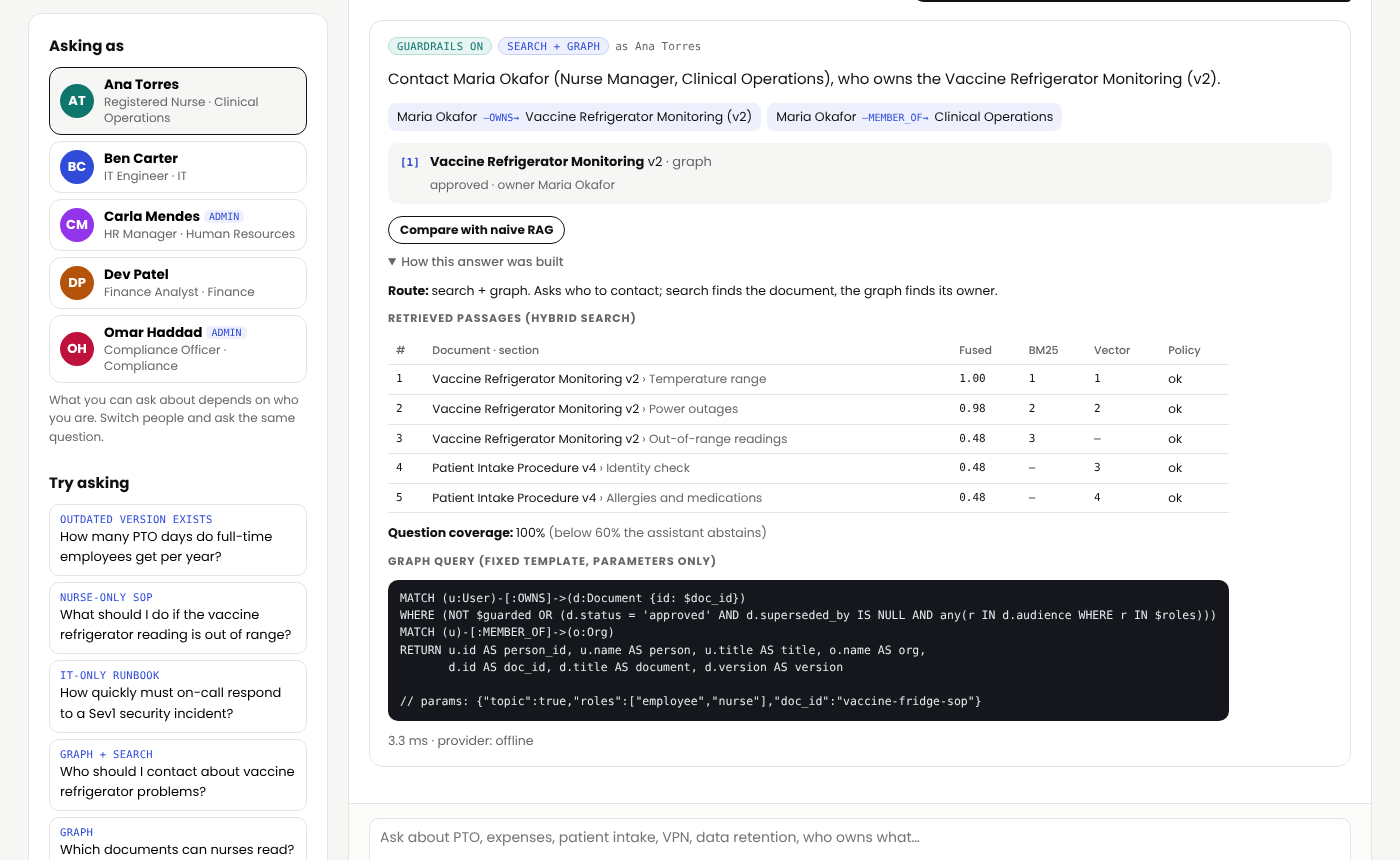
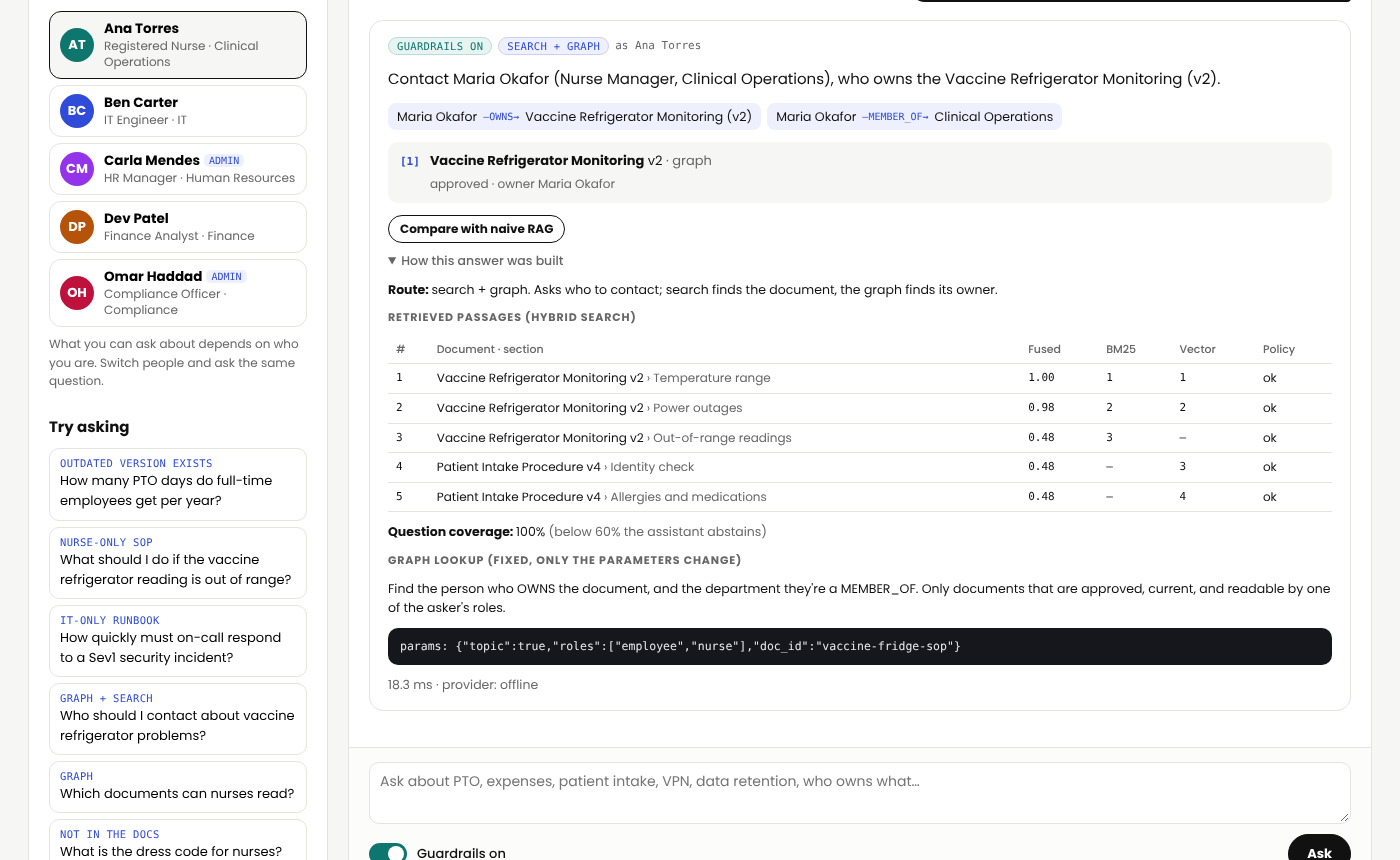
Remove Neo4j: keep the knowledge graph built in
The graph now runs only in-process. Drop the Neo4j connector, its CI job and
Docker service, and every Neo4j/Cypher mention. Graph answers show their fixed
lookup in plain words instead of a Cypher template. Evaluation results are
unchanged.

diff --git a/assistant/static/app.js b/assistant/static/app.js
@@ -156,9 +156,10 @@ function renderTrace(r) {
     }
   }
   if (t.abstain_reason) body.append(el("p", {}, el("b", {}, "Why it abstained: "), t.abstain_reason));
-  if (r.graph && r.graph.cypher) {
-    body.append(el("h4", {}, "Graph query (fixed template, parameters only)"));
-    body.append(el("pre", { class: "code" }, r.graph.cypher + "\n\n// params: " + JSON.stringify(r.graph.params)));
+  if (r.graph && r.graph.lookup) {
+    body.append(el("h4", {}, "Graph lookup (fixed, only the parameters change)"));
+    body.append(el("p", {}, r.graph.lookup));
+    body.append(el("pre", { class: "code" }, "params: " + JSON.stringify(r.graph.params)));
   }
   body.append(el("p", { class: "muted" }, `${r.latency_ms} ms · provider: ${r.provider}`));
   return el("details", { class: "trace" }, el("summary", {}, "How this answer was built"), body);

diff --git a/assistant/graph.py b/assistant/graph.py
@@ -9,54 +9,29 @@ graph:
     (Role)-[:CAN_READ]->(Document)      (Document)-[:BELONGS_TO]->(Org)
     (Document)-[:SUPERSEDES]->(Document)
 
-The model never writes graph queries. A question is mapped to one of the fixed templates in
-`CYPHER` and only its parameters vary, so there is nothing to inject. `MemoryGraph` answers
-them in Python (the default and the browser demo); `backends.neo4j.Neo4jGraph` runs the same
-Cypher against Neo4j and returns rows with the same keys.
+The model never writes graph queries. A question is mapped to one of the fixed lookups in
+`LOOKUPS` and only its parameters vary, so there is nothing to inject. Every lookup that
+returns documents applies the same access rule as document search.
 """
 
 from __future__ import annotations
 
 from dataclasses import dataclass, field
-from typing import Any, Protocol
+from typing import Any
 
 from .knowledge import Document, KnowledgeBase, User
 
-# Shared access predicate. With $guarded = false (naive mode, for comparison) it is a no-op.
-ACCESS = (
-    "(NOT $guarded OR (d.status = 'approved' AND d.superseded_by IS NULL AND any(r IN d.audience WHERE r IN $roles)))"
-)
+_ACCESS = "Only documents that are approved, current, and readable by one of the asker's roles."
 
-CYPHER: dict[str, str] = {
-    "doc_owner": f"""MATCH (u:User)-[:OWNS]->(d:Document {{id: $doc_id}})
-WHERE {ACCESS}
-MATCH (u)-[:MEMBER_OF]->(o:Org)
-RETURN u.id AS person_id, u.name AS person, u.title AS title, o.name AS org,
-       d.id AS doc_id, d.title AS document, d.version AS version""",
-    "doc_approver": f"""MATCH (u:User)-[:APPROVED]->(d:Document {{id: $doc_id}})
-WHERE {ACCESS}
-MATCH (u)-[:MEMBER_OF]->(o:Org)
-RETURN u.id AS person_id, u.name AS person, u.title AS title, o.name AS org,
-       d.id AS doc_id, d.title AS document, d.version AS version""",
-    "role_documents": f"""MATCH (:Role {{id: $role}})-[:CAN_READ]->(d:Document)
-WHERE {ACCESS}
-MATCH (d)-[:BELONGS_TO]->(o:Org)
-RETURN d.id AS doc_id, d.title AS document, d.version AS version, o.name AS org
-ORDER BY document""",
-    "user_manager": """MATCH (u:User {id: $user_id})-[:REPORTS_TO]->(m:User)-[:MEMBER_OF]->(o:Org)
-RETURN u.name AS subject, m.id AS person_id, m.name AS person, m.title AS title, o.name AS org""",
-    "org_members": """MATCH (u:User)-[:MEMBER_OF]->(o:Org {id: $org_id})
-RETURN u.id AS person_id, u.name AS person, u.title AS title, o.name AS org
-ORDER BY person""",
-    "user_documents": f"""MATCH (u:User {{id: $user_id}})-[:OWNS]->(d:Document)
-WHERE {ACCESS}
-RETURN u.name AS subject, d.id AS doc_id, d.title AS document, d.version AS version
-ORDER BY document""",
+# Plain-language description of each fixed lookup, shown in the answer trace.
+LOOKUPS: dict[str, str] = {
+    "doc_owner": "Find the person who OWNS the document, and the department they're a MEMBER_OF. " + _ACCESS,
+    "doc_approver": "Find the person who APPROVED the document, and the department they're a MEMBER_OF. " + _ACCESS,
+    "role_documents": "List the documents the role CAN_READ, with the department each BELONGS_TO. " + _ACCESS,
+    "user_manager": "Find the person this user REPORTS_TO, and that person's department.",
+    "org_members": "List the people who are a MEMBER_OF the department.",
+    "user_documents": "List the documents this person OWNS. " + _ACCESS,
 }
-
-
-class GraphStore(Protocol):
-    def run(self, intent: str, params: dict[str, Any]) -> list[dict[str, Any]]: ...
 
 
 @dataclass
@@ -74,7 +49,7 @@ class GraphAnswer:
     text: str
     rows: list[dict[str, Any]]
     path: list[Edge]
-    cypher: str
+    lookup: str
     params: dict[str, Any]
     doc_ids: list[str] = field(default_factory=list)
 
@@ -85,7 +60,7 @@ class GraphAnswer:
 
 
 class MemoryGraph:
-    """In-process graph built from the knowledge base. Runs the CYPHER templates' logic in Python."""
+    """In-process graph built from the knowledge base. Runs the fixed lookups in `LOOKUPS`."""
 
     def __init__(self, kb: KnowledgeBase) -> None:
         self.kb = kb
@@ -181,12 +156,14 @@ def _doc_label(row: dict[str, Any]) -> str:
 
 def explain(intent: str, params: dict[str, Any], rows: list[dict[str, Any]], kb: KnowledgeBase) -> GraphAnswer:
     """Turn template rows into an answer sentence and the graph path behind it."""
-    cypher = CYPHER[intent]
+    lookup = LOOKUPS[intent]
+    if not params.get("guarded", True) and _ACCESS in lookup:
+        lookup = lookup.replace(_ACCESS, "Guardrails off: no access or lifecycle check.")
     shown = {k: v for k, v in params.items() if k != "guarded"}
     path: list[Edge] = []
     doc_ids = [r["doc_id"] for r in rows if "doc_id" in r]
     if not rows:
-        return GraphAnswer(intent, "", [], [], cypher, shown, [])
+        return GraphAnswer(intent, "", [], [], lookup, shown, [])
     r0 = rows[0]
     if intent in {"doc_owner", "doc_approver"}:
         verb = "owns" if intent == "doc_owner" else "approved"
@@ -217,4 +194,4 @@ def explain(intent: str, params: dict[str, Any], rows: list[dict[str, Any]], kb:
         path = [Edge(r0["subject"], "OWNS", _doc_label(r), "User", "Document") for r in rows]
     else:
         raise ValueError(intent)
-    return GraphAnswer(intent, text, rows, path, cypher, shown, doc_ids)
+    return GraphAnswer(intent, text, rows, path, lookup, shown, doc_ids)

diff --git a/assistant/core.py b/assistant/core.py
@@ -23,7 +23,7 @@ from typing import Any
 
 from .config import Settings, get_settings
 from .gateway import LLMProvider, get_embedder, get_provider
-from .graph import GraphStore, MemoryGraph, explain
+from .graph import MemoryGraph, explain
 from .grounding import Source, extractive_answer, verify
 from .knowledge import Document, KnowledgeBase, KnowledgeError, User
 from .retrieval import AccessFilter, HybridRetriever, MemoryVectorStore, VectorStore
@@ -70,13 +70,11 @@ class Assistant:
         settings: Settings | None = None,
         kb: KnowledgeBase | None = None,
         vector_store: VectorStore | None = None,
-        graph_store: GraphStore | None = None,
     ) -> None:
         self.settings = settings or get_settings()
         root = Path(self.settings.knowledge_path)
         self.kb = kb or KnowledgeBase.load(root)
-        self.memory_graph = MemoryGraph(self.kb)
-        self.graph: GraphStore = graph_store or self._graph_store()
+        self.graph = MemoryGraph(self.kb)
         self.retriever = HybridRetriever(self.kb, get_embedder(self.settings), vector_store or self._vector_store())
         suggestions = root / "suggestions.json"
         self.suggestions: dict[str, list[dict[str, str]]] = (
@@ -95,15 +93,6 @@ class Assistant:
 
             return WeaviateStore.from_env()
         return MemoryVectorStore()
-
-    def _graph_store(self) -> GraphStore:
-        if self.settings.graph_store == "neo4j":
-            from .backends.neo4j import Neo4jGraph
-
-            g = Neo4jGraph.from_env()
-            g.sync(self.kb)
-            return g
-        return self.memory_graph
 
     # ---------- helpers ----------
 
@@ -399,7 +388,6 @@ class Assistant:
                 self.kb.add(doc)
         except KnowledgeError as exc:
             raise ValueError(str(exc)) from exc
-        self._sync_graph()
         self._log(author.id, "add_document", doc_id=doc.id, supersedes=supersedes)
         return self._doc_info(doc, author)
 
@@ -417,17 +405,11 @@ class Assistant:
                 self.kb.approve(doc_id, approver.id)
         except KnowledgeError as exc:
             raise ValueError(str(exc)) from exc
-        self._sync_graph()
         self._log(approver.id, "approve", doc_id=doc_id, archived=doc.supersedes)
         return self._doc_info(doc, approver)
 
-    def _sync_graph(self) -> None:
-        sync = getattr(self.graph, "sync", None)
-        if callable(sync):
-            sync(self.kb)
-
     def graph_snapshot(self, user_id: str) -> dict[str, Any]:
-        return self.memory_graph.snapshot(self.user(user_id))
+        return self.graph.snapshot(self.user(user_id))
 
     def users(self) -> list[dict[str, Any]]:
         out = []

diff --git a/tests/test_backends.py b/tests/test_backends.py
@@ -2,12 +2,8 @@ import json
 
 import httpx
 
-from assistant.backends.neo4j import Neo4jGraph
 from assistant.backends.pinecone import PineconeStore, pinecone_filter
 from assistant.backends.weaviate import WeaviateStore, weaviate_where
-from assistant.config import Settings
-from assistant.core import Assistant
-from assistant.graph import CYPHER
 from assistant.retrieval import AccessFilter
 
 NURSE = AccessFilter(("employee", "nurse"))
@@ -58,55 +54,3 @@ def test_weaviate_query_has_where_filter():
     q = seen[-1]["query"]
     assert "where: {operator: And" in q and 'valueText: ["employee", "nurse"]' in q and "ContainsAny" in q
     assert weaviate_where(AccessFilter(None)) is None
-
-
-class FakeSession:
-    def __init__(self, log, rows):
-        self.log, self.rows = log, rows
-
-    def __enter__(self):
-        return self
-
-    def __exit__(self, *a):
-        return False
-
-    def run(self, cypher, params):
-        self.log.append((cypher, params))
-        return self.rows
-
-
-class FakeDriver:
-    def __init__(self, rows=()):
-        self.log, self.rows = [], list(rows)
-
-    def session(self, database=None):
-        return FakeSession(self.log, self.rows)
-
-
-def test_neo4j_runs_fixed_templates_with_parameters():
-    row = {
-        "person_id": "dev",
-        "person": "Dev Patel",
-        "title": "Finance Analyst",
-        "org": "Finance",
-        "doc_id": "expense-policy-v2",
-        "document": "Expense Reimbursement Policy",
-        "version": 2,
-    }
-    driver = FakeDriver([row])
-    graph = Neo4jGraph(driver)
-    a = Assistant(Settings(), graph_store=graph)
-    r = a.ask("ana", "Who owns the expense reimbursement policy?")
-    assert r["answer"].startswith("Dev Patel")
-    cypher, params = driver.log[-1]
-    assert cypher == CYPHER["doc_owner"] and params["doc_id"] == "expense-policy-v2" and params["guarded"] is True
-    graph.sync(a.kb)
-    assert any("MERGE (u)-[:OWNS]->(x)" in c for c, _ in driver.log)
-    synced = driver.log[-1][1]
-    assert {d["id"] for d in synced["docs"]} == set(a.kb.docs)
-
-
-def test_cypher_templates_only_use_parameters():
-    for cypher in CYPHER.values():
-        assert "{" not in cypher.replace("{id: $", "").replace("}", "") or "$" in cypher
-        assert "%s" not in cypher and "format" not in cypher

diff --git a/tests/test_live_backends.py b/tests/test_live_backends.py
@@ -1,4 +1,4 @@
-"""Runs only in CI's `backends` job, against real Neo4j and Weaviate containers."""
+"""Runs only in CI's `backends` job, against a real Weaviate container."""
 
 import os
 
@@ -10,23 +10,13 @@ from assistant.evaluation import run_eval
 
 pytestmark = [
     pytest.mark.integration,
-    pytest.mark.skipif(
-        not (os.environ.get("NEO4J_URI") and os.environ.get("WEAVIATE_URL")), reason="needs Neo4j and Weaviate"
-    ),
+    pytest.mark.skipif(not os.environ.get("WEAVIATE_URL"), reason="needs Weaviate"),
 ]
 
 
 @pytest.fixture(scope="module")
 def live() -> Assistant:
-    return Assistant(Settings(vector_store="weaviate", graph_store="neo4j"))
-
-
-def test_graph_questions_on_neo4j(live):
-    r = live.ask("ana", "Who owns the expense reimbursement policy?")
-    assert "Dev Patel" in r["answer"]
-    assert live.ask("ana", "Who owns the security incident response runbook?")["abstained"]
-    r = live.ask("ana", "Which documents can nurses read?")
-    assert "Patient Intake Procedure" in r["answer"] and "(v2), Paid Time Off Policy (v2)" not in r["answer"]
+    return Assistant(Settings(vector_store="weaviate"))
 
 
 def test_weaviate_filters_restricted_passages(live):

diff --git a/assistant/config.py b/assistant/config.py
@@ -27,7 +27,6 @@ class Settings:
     provider: str = "offline"  # offline | openai | anthropic | bedrock | ollama
     embedder: str = "hashing"  # hashing | openai | ollama | bedrock
     vector_store: str = "memory"  # memory | pinecone | weaviate
-    graph_store: str = "memory"  # memory | neo4j
     llm_router: bool = False  # let the model pick graph intents (from a fixed menu)
     openai_model: str = "gpt-4o-mini"
     openai_embed_model: str = "text-embedding-3-small"
@@ -57,7 +56,6 @@ def get_settings() -> Settings:
         provider=env("ASSISTANT_PROVIDER", "offline").lower(),
         embedder=env("ASSISTANT_EMBEDDER", "hashing").lower(),
         vector_store=env("ASSISTANT_VECTOR_STORE", "memory").lower(),
-        graph_store=env("ASSISTANT_GRAPH_STORE", "memory").lower(),
         llm_router=env("ASSISTANT_LLM_ROUTER", "false").lower() in {"1", "true", "yes"},
         openai_model=env("OPENAI_MODEL", "gpt-4o-mini"),
         openai_embed_model=env("OPENAI_EMBED_MODEL", "text-embedding-3-small"),

diff --git a/tests/test_assistant.py b/tests/test_assistant.py
@@ -71,7 +71,7 @@ def test_documents_list_and_read_respect_access(assistant):
 def test_graph_answers(assistant):
     r = ask(assistant, "ana", "Who owns the expense reimbursement policy?")
     assert r["answer"].startswith("Dev Patel") and r["graph"]["path"][0]["rel"] == "OWNS"
-    assert "$doc_id" in r["graph"]["cypher"] and r["graph"]["params"]["doc_id"] == "expense-policy-v2"
+    assert "OWNS" in r["graph"]["lookup"] and r["graph"]["params"]["doc_id"] == "expense-policy-v2"
     r = ask(assistant, "ana", "Which documents can nurses read?")
     assert "Patient Intake Procedure" in r["answer"] and "v2) , " not in r["answer"]
     assert "Paid Time Off Policy (v2)" not in r["answer"]  # archived versions aren't listed

diff --git a/assistant/backends/__init__.py b/assistant/backends/__init__.py
@@ -3,5 +3,4 @@ in-memory default, so the assistant code doesn't change when you switch:
 
 * `pinecone.PineconeStore` and `weaviate.WeaviateStore` implement `retrieval.VectorStore`
   and push the access filter down into the database query.
-* `neo4j.Neo4jGraph` implements `graph.GraphStore` by running the fixed Cypher templates.
 """

diff --git a/assistant/api.py b/assistant/api.py
@@ -111,7 +111,6 @@ def health(a: AssistantDep) -> dict:
         "provider": s.provider,
         "embedder": s.embedder,
         "vector_store": s.vector_store,
-        "graph_store": s.graph_store,
         "auth": s.auth_enabled,
         "documents": len(a.kb.docs),
     }

diff --git a/README.md b/README.md
@@ -42,7 +42,7 @@ flowchart LR
     A --> V{Grounding check<br/>per sentence}
     V -- supported --> OUT[Answer with citations]
     V -- nothing supported --> AB[I don't know<br/>+ who to ask]
-    R -- "who owns / approved / reports to?" --> G[Knowledge graph<br/>fixed Cypher templates]
+    R -- "who owns / approved / reports to?" --> G[Knowledge graph<br/>fixed lookups]
     R -- "who do I contact about X?" --> S2[Search finds the document] --> G
     G --> OUT
 ```
@@ -53,12 +53,12 @@ flowchart LR
 | **Permission-aware retrieval** | Every document has an audience (roles). The asker's roles are applied as a filter in both BM25 and vector search, and pushed down into Pinecone / Weaviate as a metadata filter. Restricted passages aren't even *counted* in the trace, so their existence isn't revealed. | [`retrieval.py`](assistant/retrieval.py), [`backends/`](assistant/backends) |
 | **Sentence-level grounding check** | Every sentence must cite a source, and it's dropped if its words aren't mostly in that source or if it has a **number, amount or percentage that isn't in the source**. Wrong numbers are the most common and most harmful hallucination in policy answers. | [`grounding.py`](assistant/grounding.py) |
 | **Abstention** | If the best passage doesn't cover the question, or no sentence survives the check, the assistant says it can't answer. When an allowed document is clearly on the same topic, it names the document's owner. | [`core.py`](assistant/core.py) |
-| **Knowledge graph for relationships** | Users, roles, departments and documents with `OWNS`, `APPROVED`, `CAN_READ`, `MEMBER_OF`, `REPORTS_TO`, `SUPERSEDES` edges. The model never writes Cypher: questions map to fixed, parameterized templates, so there's nothing to inject. The same access predicate is inside every template. | [`graph.py`](assistant/graph.py), [`router.py`](assistant/router.py) |
+| **Knowledge graph for relationships** | Users, roles, departments and documents with `OWNS`, `APPROVED`, `CAN_READ`, `MEMBER_OF`, `REPORTS_TO`, `SUPERSEDES` edges. The model never writes graph queries: questions map to a fixed set of lookups where only the parameters change, so there's nothing to inject. Every lookup that returns documents applies the same access rule as search. | [`graph.py`](assistant/graph.py), [`router.py`](assistant/router.py) |
 | **Governance** | New documents start as drafts. Only knowledge admins can approve, and never their own documents. Every question, edit and approval goes to an audit log. | [`core.py`](assistant/core.py) |
 
-Click any answer's **How this answer was built** to see the route, the retrieved passages with their BM25 and vector ranks, what was filtered out, the per-sentence grounding verdicts and, for graph answers, the exact Cypher template and parameters:
+Click any answer's **How this answer was built** to see the route, the retrieved passages with their BM25 and vector ranks, what was filtered out, the per-sentence grounding verdicts and, for graph answers, the exact lookup and its parameters:
 
-![A graph answer with its trace and Cypher template](docs/graph-answer.png)
+![A graph answer with its trace and graph lookup](docs/graph-answer.png)
 
 | Unapproved draft: refused vs quoted | Knowledge graph (hover to trace links) |
 |---|---|
@@ -95,9 +95,8 @@ Every external piece sits behind a small interface, and the in-memory defaults n
 | Answer model | `offline`: quotes the best sentences, no model | **Amazon Bedrock** (Converse API), Anthropic Claude, OpenAI, Ollama (local) | `ASSISTANT_PROVIDER` |
 | Embeddings | Local feature hashing | Bedrock Titan, OpenAI, Ollama | `ASSISTANT_EMBEDDER` |
 | Vector store | In-memory | **Pinecone**, **Weaviate** (access filter pushed into the query) | `ASSISTANT_VECTOR_STORE` |
-| Graph store | In-memory | **Neo4j** (same templates as real Cypher) | `ASSISTANT_GRAPH_STORE` |
 
-The Neo4j and Weaviate adapters are tested for real: a CI job starts both as containers and runs the full evaluation against them. Pinecone is a hosted service, so its adapter is tested against a mocked HTTP API. LLM answers go through the same grounding check as offline ones; the tests use a fake model that invents a number and an unsupported claim, and check that both are dropped.
+The Weaviate adapter is tested for real: a CI job starts Weaviate as a container and runs the full evaluation against it. Pinecone is a hosted service, so its adapter is tested against a mocked HTTP API. LLM answers go through the same grounding check as offline ones; the tests use a fake model that invents a number and an unsupported claim, and check that both are dropped.
 
 ## Quick start
 
@@ -117,10 +116,10 @@ python -m assistant.cli eval              # tuning set
 python -m assistant.cli eval --holdout    # held-out set
 ```
 
-With Neo4j and Weaviate (Docker):
+With Weaviate (Docker):
 
 ```bash
-docker compose up --build                 # assistant + Neo4j + Weaviate
+docker compose up --build                 # assistant + Weaviate
 ```
 
 With a real model, for example Bedrock:
@@ -162,11 +161,11 @@ assistant/
   knowledge.py     documents, people directory, the access policy (one function)
   retrieval.py     BM25 + vectors + reciprocal rank fusion, access filter as data
   grounding.py     extractive answerer and the per-sentence grounding check
-  graph.py         knowledge graph, Cypher templates, in-memory implementation
+  graph.py         knowledge graph and its fixed lookups
   router.py        graph vs documents vs both; optional LLM routing from a fixed menu
   evaluation.py    naive vs guardrails scoring with automatic error classes
   gateway.py       Bedrock, Claude, OpenAI, Ollama behind one interface
-  backends/        Pinecone, Weaviate, Neo4j adapters
+  backends/        Pinecone and Weaviate adapters
   api.py  bridge.py  mcp_server.py  cli.py  static/
 knowledge/         sample documents, directory, evaluation sets
 tests/             unit tests, API tests, live backend tests (CI)
